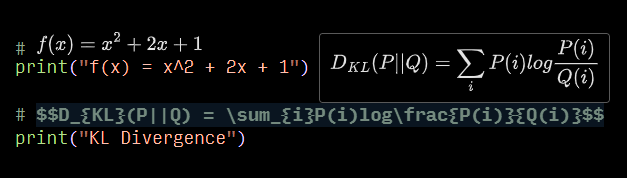
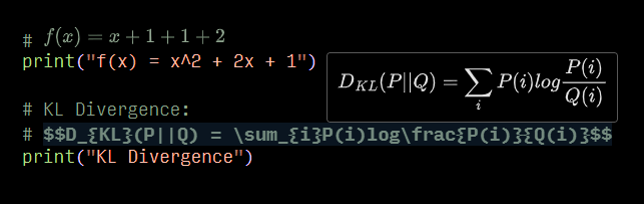
release version 0.0.2

Changed region(s): [[0.0, 0.1404, 0.9697, 0.8427], [0.5152, 0.1685, 0.9697, 0.1966]]

diff --git a/src/transformer.ts b/src/transformer.ts
@@ -11,23 +11,28 @@ export function htmlToDateURL(str: string) {
 const md = new MarkdownIt()
 md.use(mathjax3)
 export const markdownToHTML = (markdown: string) => {
+  // originHTML => message
+  // scaleHTML => inline
   const html = md.render(markdown)
   const originDOM = new JSDOM(html)
   const originElement = originDOM.window.document.querySelector('svg')!
   const originWidth = originElement.getAttribute('width')!
   const originHeight = originElement.getAttribute('height')!
   const originFirst = originElement!.firstChild as SVGElement
-  originFirst.setAttribute('fill', getColor())
-  originFirst.setAttribute('stroke', getColor())
+  originFirst.setAttribute('fill', getColor('message'))
+  originFirst.setAttribute('stroke', getColor('message'))
   const originHTML = originElement!.outerHTML
 
-  const scaleElement = originElement.cloneNode(true) as SVGElement
   let big = originHeight > '2.5ex'
+  let scaleElement = originElement.cloneNode(true) as SVGElement
   if (big) {
     const scale = 2.5 / parseFloat(originHeight!)
     scaleElement.setAttribute('width', `${parseFloat(originWidth!) * scale}ex`)
     scaleElement.setAttribute('height', `${parseFloat(originHeight!) * scale}ex`)
   }
+  const scaleFirst = scaleElement!.firstChild as SVGElement
+  scaleFirst.setAttribute('fill', getColor('inline'))
+  scaleFirst.setAttribute('stroke', getColor('inline'))
   const scaleHTML = scaleElement!.outerHTML
   const inline = getInline()
   if (inline == 'all')

diff --git a/src/config.ts b/src/config.ts
@@ -1,17 +1,20 @@
 import { workspace } from "vscode"
 import { EXT_NAMESPACE } from "./meta"
 
-export const getColor = () => {
-  const color: string = workspace.getConfiguration(EXT_NAMESPACE).get('color', 'auto')
+export const getColor = (type: 'message' | 'inline') => {
+  const typeConfigMap = {
+    'message': 'messageColor',
+    'inline': 'inlineColor',
+  }
+  const color: string = workspace.getConfiguration(EXT_NAMESPACE).get(typeConfigMap[type], 'auto')
   const colorTheme = workspace.getConfiguration('workbench').get('colorTheme') as string
   if (color == "auto") {
-    if (colorTheme.includes('Dark') || colorTheme.includes('Black')) {
+    if (colorTheme.includes('Dark') || colorTheme.includes('Black'))
       return '#aaa'
-    } else if (colorTheme.includes('Light')) {
+    else if (colorTheme.includes('Light'))
       return '#555'
-    } else {
+    else
       return '#888'
-    }
   } else {
     return color
   }

diff --git a/README.md b/README.md
@@ -15,17 +15,18 @@ Extension code is modified from [vscode-iconify](https://github.com/antfu/vscode
 ![](res/feature.png)
 
 ## Configure options
-- `comment-formula.color`: The color of the rendered formula. Default is `auto`.
+- `comment-formula.inlineColor`: The color of the rendered formula inline the editor. Default is `auto`.
+- `comment-formula.messageColor`: The color of the rendered formula in message. Default is `auto`.
 - `comment-formula.inline`: The inline mode of the rendered formula. Default is `all`.  
   - `all`: Render all formula in inline mode.
   - `none`: You can just hover on the formula to preview it.
   - `partial`: Render formula in inline mode if the formula isn't too large.
 
-
 For example:
 ```json
 {
-  "comment-formula.color": "#ff0000", 
-  "comment-formula.inline": "all",
+  "comment-formula.inlineColor": "#667466",
+  "comment-formula.messageColor": "auto",  
+  "comment-formula.inline": "partial",
 }
 ```

diff --git a/CHANGELOG.md b/CHANGELOG.md
@@ -1,4 +1,7 @@
 # Change Log
 
-- 2023.11.18: v0.0.1
-  - Initial release
+- 2023-11-18: v0.0.1
+  - Initial release.
+
+- 2023-11-18: v0.0.2
+  - You can set color in message and inline-editor respectively.
